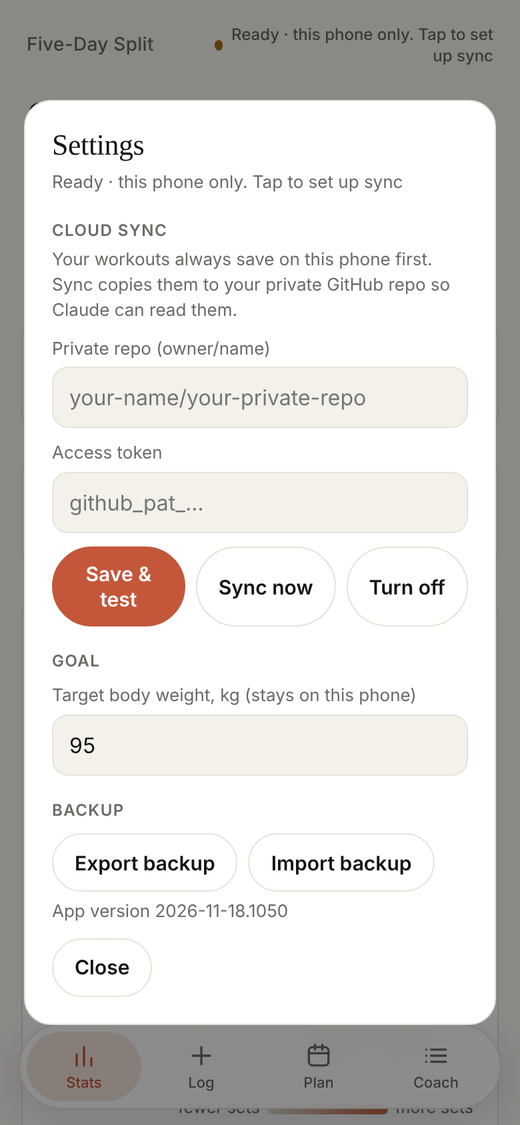
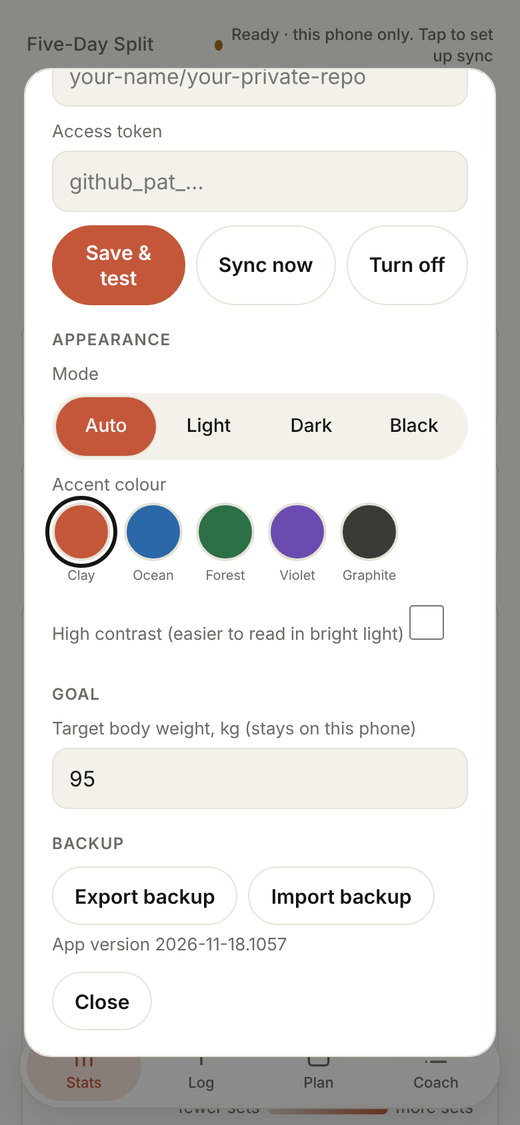
Add themes: auto/light/dark/black mode, five accents, high contrast
Claude-Session: https://claude.ai/code/session_01G4zxRsQQfDdyvkuqdmCpkk

diff --git a/index.html b/index.html
@@ -9,7 +9,8 @@
 <link rel="apple-touch-icon" href="apple-touch-icon.png">
 <meta name="apple-mobile-web-app-capable" content="yes"><meta name="mobile-web-app-capable" content="yes">
 <meta name="apple-mobile-web-app-title" content="Split"><meta name="apple-mobile-web-app-status-bar-style" content="default">
-<meta name="theme-color" content="#faf9f5" media="(prefers-color-scheme: light)"><meta name="theme-color" content="#262624" media="(prefers-color-scheme: dark)">
+<meta name="theme-color" id="tc" content="#faf9f5">
+<script>(function(){try{var T=JSON.parse(localStorage.getItem("split-theme-v1")||"{}"),m=T.mode||"auto",d=document.documentElement,s=m==="auto"?(matchMedia("(prefers-color-scheme: dark)").matches?"dark":"light"):m;d.dataset.scheme=s;d.dataset.accent=T.accent||"clay";d.dataset.contrast=T.contrast||"normal";}catch(e){var d=document.documentElement;d.dataset.scheme=matchMedia("(prefers-color-scheme: dark)").matches?"dark":"light";d.dataset.accent="clay";d.dataset.contrast="normal";}})()</script>
 <style>
 /* Layout: one narrow column, sticky header, bottom tab bar. Palette: graphite with indigo accent; heat uses its own red-to-green scale. */
 /* Look: warm paper, clay accent, serif display + system sans, quiet hairline cards (follows the iPhone light/dark setting) */
@@ -283,6 +284,39 @@ dialog#settings::backdrop{background:rgba(0,0,0,.45)}
 #settings .fileb{display:inline-flex;align-items:center;justify-content:center;cursor:pointer}#settings .fileb input{display:none}
 #set-status,#set-msg,#set-build{font-size:13px;color:var(--muted);margin:6px 0 0}
 .coachnote{border-left:3px solid var(--accent)}.coachnote p{margin:6px 0 0;white-space:pre-line}
+
+/* ---------- themes: html[data-scheme] light|dark|black, [data-accent], [data-contrast] ---------- */
+html[data-scheme="light"]{--bg:#faf9f5;--surface:#fff;--inset:#f3f1ea;--ink:#141413;--muted:#6b6a64;--line:#e6e3d8;--accent:#c4573a;--accent-ink:#fff;--soft:#f6e6de;--good:#5f8a63;--warn:#a8741a;--bad:#b5412f;--body:#ebe8dd;--idle:#e4e1d6;--clay:#c96442;--sand:#e3b99a;--sage:#8fb08f;--fig:#141413;--eq:#c4573a;--shadow:none;color-scheme:light}
+html[data-scheme="dark"]{--bg:#262624;--surface:#30302e;--inset:#262624;--ink:#faf9f5;--muted:#a9a79d;--line:#444440;--accent:#d97757;--accent-ink:#1f1e1d;--soft:#4a362d;--good:#8db48d;--warn:#e0a653;--bad:#e5786a;--body:#3a3936;--idle:#454440;--clay:#d97757;--sand:#b98c6b;--sage:#7fa27f;--fig:#faf9f5;--eq:#d97757;color-scheme:dark}
+html[data-scheme="black"]{--bg:#262624;--surface:#30302e;--inset:#262624;--ink:#faf9f5;--muted:#a9a79d;--line:#444440;--accent:#d97757;--accent-ink:#1f1e1d;--soft:#4a362d;--good:#8db48d;--warn:#e0a653;--bad:#e5786a;--body:#3a3936;--idle:#454440;--clay:#d97757;--sand:#b98c6b;--sage:#7fa27f;--fig:#faf9f5;--eq:#d97757;color-scheme:dark--bg:#000;--surface:#0f0f0f;--inset:#181818;--line:#2c2c2c;--body:#1b1b1b;--idle:#262626}
+html[data-accent="clay"][data-scheme="light"]{--acc:#c4573a;--acc-clay:#c96442;--acc-soft:#f6e6de}
+html[data-accent="clay"][data-scheme="dark"],html[data-accent="clay"][data-scheme="black"]{--acc:#d97757;--acc-clay:#d97757;--acc-soft:#4a362d}
+html[data-accent="ocean"][data-scheme="light"]{--acc:#2a68a8;--acc-clay:#3b79ba;--acc-soft:#e0ebf7}
+html[data-accent="ocean"][data-scheme="dark"],html[data-accent="ocean"][data-scheme="black"]{--acc:#6fa8e0;--acc-clay:#6fa8e0;--acc-soft:#22384d}
+html[data-accent="forest"][data-scheme="light"]{--acc:#2c7048;--acc-clay:#2f6b4c;--acc-soft:#dfeee4}
+html[data-accent="forest"][data-scheme="dark"],html[data-accent="forest"][data-scheme="black"]{--acc:#6fbf8c;--acc-clay:#4f9a6e;--acc-soft:#223a2b}
+html[data-accent="violet"][data-scheme="light"]{--acc:#6a4cb0;--acc-clay:#7757c2;--acc-soft:#ebe5f7}
+html[data-accent="violet"][data-scheme="dark"],html[data-accent="violet"][data-scheme="black"]{--acc:#a68be3;--acc-clay:#a68be3;--acc-soft:#352c50}
+html[data-accent="graphite"][data-scheme="light"]{--acc:#3b3a37;--acc-clay:#5a5852;--acc-soft:#e8e6df}
+html[data-accent="graphite"][data-scheme="dark"],html[data-accent="graphite"][data-scheme="black"]{--acc:#d9d6cd;--acc-clay:#bdb9ae;--acc-soft:#3b3a37}
+html[data-accent]{--accent:var(--acc);--clay:var(--acc-clay);--soft:var(--acc-soft);--eq:var(--acc)}
+html[data-contrast="high"][data-scheme="light"]{--bg:#fff;--surface:#fff;--inset:#ecebe4;--ink:#000;--muted:#2b2a26;--line:#5e5c53;--good:#2f6a35;--warn:#7a4f00;--bad:#9a2412;--accent:color-mix(in srgb,var(--acc) 62%,#000)}
+html[data-contrast="high"][data-scheme="dark"]{--bg:#161615;--surface:#1f1f1e;--inset:#121211;--ink:#fff;--muted:#dedcd3;--line:#a8a69b;--good:#a6d6a6;--warn:#ffc766;--bad:#ff9d8f;--accent:color-mix(in srgb,var(--acc) 62%,#fff)}
+html[data-contrast="high"][data-scheme="black"]{--bg:#000;--surface:#000;--inset:#0b0b0b;--ink:#fff;--muted:#e2e0d7;--line:#b3b1a6;--good:#a6d6a6;--warn:#ffc766;--bad:#ff9d8f;--accent:color-mix(in srgb,var(--acc) 62%,#fff)}
+html[data-contrast="high"] .card,html[data-contrast="high"] .tile,html[data-contrast="high"] .next{border-width:2px;border-color:var(--line)}
+html[data-contrast="high"] .sub,html[data-contrast="high"] .meta,html[data-contrast="high"] .hist{color:var(--muted)}
+html[data-contrast="high"] .btn,html[data-contrast="high"] input[type=text],html[data-contrast="high"] textarea{border:2px solid var(--line)}
+/* appearance controls in Settings */
+.swatches{display:flex;gap:10px;flex-wrap:wrap;margin-top:4px}
+.sw{width:44px;height:44px;border-radius:50%;border:2px solid var(--line);padding:0;position:relative;cursor:pointer}
+.sw[aria-pressed="true"]{outline:3px solid var(--ink);outline-offset:2px}
+.sw span{position:absolute;left:50%;top:100%;transform:translateX(-50%);font-size:10px;color:var(--muted);margin-top:6px;white-space:nowrap}
+.swrow{padding-bottom:20px}
+#settings .seg{display:flex}#settings .seg button{flex:1;min-height:44px;border:0;background:none;font:500 14px var(--sans);color:var(--ink);border-radius:999px}
+#settings .seg button.on{background:var(--accent);color:var(--accent-ink)}
+#settings .seg{background:var(--inset);border-radius:999px;padding:3px}
+.hcrow{display:flex;align-items:center;justify-content:space-between;gap:12px;min-height:44px;margin-top:12px}
+.hcrow input{width:26px;height:26px;accent-color:var(--accent)}
 </style>
 </head>
 <body>
@@ -292,6 +326,15 @@ dialog#settings::backdrop{background:rgba(0,0,0,.45)}
 <label for="set-repo">Private repo (owner/name)</label><input id="set-repo" type="text" placeholder="your-name/your-private-repo" autocapitalize="off" autocorrect="off" spellcheck="false">
 <label for="set-token">Access token</label><input id="set-token" type="password" autocomplete="off" autocapitalize="off" spellcheck="false">
 <div class="row"><button class="btn primary" id="set-save" type="button">Save &amp; test</button><button class="btn" id="set-now" type="button">Sync now</button><button class="btn" id="set-off" type="button">Turn off</button></div>
+<h3>Appearance</h3>
+<label>Mode</label><div class="seg" id="th-mode" role="group" aria-label="Mode"><button type="button" data-mode="auto">Auto</button><button type="button" data-mode="light">Light</button><button type="button" data-mode="dark">Dark</button><button type="button" data-mode="black">Black</button></div>
+<label>Accent colour</label><div class="swatches swrow" id="th-acc" role="group" aria-label="Accent colour">
+<button type="button" class="sw" data-acc="clay" aria-label="Clay" style="background:#c4573a"><span>Clay</span></button>
+<button type="button" class="sw" data-acc="ocean" aria-label="Ocean" style="background:#2a68a8"><span>Ocean</span></button>
+<button type="button" class="sw" data-acc="forest" aria-label="Forest" style="background:#2c7048"><span>Forest</span></button>
+<button type="button" class="sw" data-acc="violet" aria-label="Violet" style="background:#6a4cb0"><span>Violet</span></button>
+<button type="button" class="sw" data-acc="graphite" aria-label="Graphite" style="background:#3b3a37"><span>Graphite</span></button></div>
+<label class="hcrow" for="th-hc"><span>High contrast (easier to read in bright light)</span><input type="checkbox" id="th-hc"></label>
 <h3>Goal</h3><label for="set-target">Target body weight, kg (stays on this phone)</label><input id="set-target" type="text" inputmode="decimal" placeholder="optional">
 <h3>Backup</h3><div class="row"><button class="btn" id="set-export" type="button">Export backup</button><label class="btn fileb" style="margin:0;color:var(--ink)">Import backup<input id="set-import" type="file" accept="application/json,.json"></label></div>
 <p id="set-msg" role="status"></p><p id="set-build"></p>
@@ -392,7 +435,7 @@ let sampleCache=null;
 const LS_CO='split-coach-v1',LS_CS='split-coach-shas-v1';
 const esc=s=>String(s==null?'':s).replace(/[&<>"']/g,c=>({'&':'&amp;','<':'&lt;','>':'&gt;','"':'&quot;',"'":'&#39;'}[c]));
 const LS_S='split-sessions-v2',LS_Q='split-queue-v1',LS_C='split-sync-cfg-v1',LS_H='split-shas-v1',LS_L='split-lastsync-v1';
-const BUILD='2026-11-18.1050';
+const BUILD='2026-11-18.1057';
 const lsGet=(k,d)=>{try{const v=localStorage.getItem(k);return v?JSON.parse(v):d;}catch(e){return d;}};
 const lsSet=(k,v)=>{try{localStorage.setItem(k,JSON.stringify(v));return true;}catch(e){return false;}};
 function idbOpen(){return new Promise((res,rej)=>{try{const r=indexedDB.open('split',1);r.onupgradeneeded=()=>r.result.createObjectStore('kv');r.onsuccess=()=>res(r.result);r.onerror=()=>rej(r.error);}catch(e){rej(e);}});}
@@ -940,6 +983,23 @@ window.addEventListener('pagehide',()=>{if(state.dirty)autoSave();});
 window.addEventListener('focus',rollover);
 window.addEventListener('online',()=>schedSync(500));
 document.addEventListener('visibilitychange',()=>{if(document.hidden){if(Object.keys(queueGet()).length)schedSync(0);}else schedSync(500);});
+/* ---------- themes ---------- */
+const LS_TH='split-theme-v1';
+const themeGet=()=>Object.assign({mode:'auto',accent:'clay',contrast:'normal'},lsGet(LS_TH,{}));
+function applyTheme(){
+  const T=themeGet(),d=document.documentElement,mq=matchMedia('(prefers-color-scheme: dark)');
+  d.dataset.scheme=T.mode==='auto'?(mq.matches?'dark':'light'):T.mode;d.dataset.accent=T.accent;d.dataset.contrast=T.contrast;
+  const tc=$('#tc');if(tc)tc.content=getComputedStyle(d).getPropertyValue('--bg').trim()||'#faf9f5';
+  document.querySelectorAll('#th-mode button').forEach(b=>b.classList.toggle('on',b.dataset.mode===T.mode));
+  document.querySelectorAll('#th-acc button').forEach(b=>b.setAttribute('aria-pressed',b.dataset.acc===T.accent?'true':'false'));
+  const hc=$('#th-hc');if(hc)hc.checked=T.contrast==='high';
+}
+function setTheme(p){lsSet(LS_TH,Object.assign(themeGet(),p));applyTheme();}
+$('#th-mode').addEventListener('click',e=>{const b=e.target.closest('button');if(b)setTheme({mode:b.dataset.mode});});
+$('#th-acc').addEventListener('click',e=>{const b=e.target.closest('button');if(b)setTheme({accent:b.dataset.acc});});
+$('#th-hc').addEventListener('change',e=>setTheme({contrast:e.target.checked?'high':'normal'}));
+try{matchMedia('(prefers-color-scheme: dark)').addEventListener('change',()=>{if(themeGet().mode==='auto')applyTheme();});}catch(e){}
+applyTheme();
 /* ---------- settings sheet ---------- */
 const dlg=$('#settings');
 function openSettings(){const c=cfg();$('#set-repo').value=c?c.repo:'';$('#set-token').value='';$('#set-target').value=targetKg()||'';$('#set-token').placeholder=c?'Token saved. Leave empty to keep it':'github_pat_…';$('#set-build').textContent='App version '+BUILD;$('#set-msg').textContent='';refreshStatus();if(dlg.showModal)dlg.showModal();else dlg.setAttribute('open','');}

diff --git a/src/template.html b/src/template.html
@@ -9,7 +9,8 @@
 <link rel="apple-touch-icon" href="apple-touch-icon.png">
 <meta name="apple-mobile-web-app-capable" content="yes"><meta name="mobile-web-app-capable" content="yes">
 <meta name="apple-mobile-web-app-title" content="Split"><meta name="apple-mobile-web-app-status-bar-style" content="default">
-<meta name="theme-color" content="#faf9f5" media="(prefers-color-scheme: light)"><meta name="theme-color" content="#262624" media="(prefers-color-scheme: dark)">
+<meta name="theme-color" id="tc" content="#faf9f5">
+<script>(function(){try{var T=JSON.parse(localStorage.getItem("split-theme-v1")||"{}"),m=T.mode||"auto",d=document.documentElement,s=m==="auto"?(matchMedia("(prefers-color-scheme: dark)").matches?"dark":"light"):m;d.dataset.scheme=s;d.dataset.accent=T.accent||"clay";d.dataset.contrast=T.contrast||"normal";}catch(e){var d=document.documentElement;d.dataset.scheme=matchMedia("(prefers-color-scheme: dark)").matches?"dark":"light";d.dataset.accent="clay";d.dataset.contrast="normal";}})()</script>
 <style>
 /* Layout: one narrow column, sticky header, bottom tab bar. Palette: graphite with indigo accent; heat uses its own red-to-green scale. */
 /* Look: warm paper, clay accent, serif display + system sans, quiet hairline cards (follows the iPhone light/dark setting) */
@@ -283,6 +284,39 @@ dialog#settings::backdrop{background:rgba(0,0,0,.45)}
 #settings .fileb{display:inline-flex;align-items:center;justify-content:center;cursor:pointer}#settings .fileb input{display:none}
 #set-status,#set-msg,#set-build{font-size:13px;color:var(--muted);margin:6px 0 0}
 .coachnote{border-left:3px solid var(--accent)}.coachnote p{margin:6px 0 0;white-space:pre-line}
+
+/* ---------- themes: html[data-scheme] light|dark|black, [data-accent], [data-contrast] ---------- */
+html[data-scheme="light"]{--bg:#faf9f5;--surface:#fff;--inset:#f3f1ea;--ink:#141413;--muted:#6b6a64;--line:#e6e3d8;--accent:#c4573a;--accent-ink:#fff;--soft:#f6e6de;--good:#5f8a63;--warn:#a8741a;--bad:#b5412f;--body:#ebe8dd;--idle:#e4e1d6;--clay:#c96442;--sand:#e3b99a;--sage:#8fb08f;--fig:#141413;--eq:#c4573a;--shadow:none;color-scheme:light}
+html[data-scheme="dark"]{--bg:#262624;--surface:#30302e;--inset:#262624;--ink:#faf9f5;--muted:#a9a79d;--line:#444440;--accent:#d97757;--accent-ink:#1f1e1d;--soft:#4a362d;--good:#8db48d;--warn:#e0a653;--bad:#e5786a;--body:#3a3936;--idle:#454440;--clay:#d97757;--sand:#b98c6b;--sage:#7fa27f;--fig:#faf9f5;--eq:#d97757;color-scheme:dark}
+html[data-scheme="black"]{--bg:#262624;--surface:#30302e;--inset:#262624;--ink:#faf9f5;--muted:#a9a79d;--line:#444440;--accent:#d97757;--accent-ink:#1f1e1d;--soft:#4a362d;--good:#8db48d;--warn:#e0a653;--bad:#e5786a;--body:#3a3936;--idle:#454440;--clay:#d97757;--sand:#b98c6b;--sage:#7fa27f;--fig:#faf9f5;--eq:#d97757;color-scheme:dark--bg:#000;--surface:#0f0f0f;--inset:#181818;--line:#2c2c2c;--body:#1b1b1b;--idle:#262626}
+html[data-accent="clay"][data-scheme="light"]{--acc:#c4573a;--acc-clay:#c96442;--acc-soft:#f6e6de}
+html[data-accent="clay"][data-scheme="dark"],html[data-accent="clay"][data-scheme="black"]{--acc:#d97757;--acc-clay:#d97757;--acc-soft:#4a362d}
+html[data-accent="ocean"][data-scheme="light"]{--acc:#2a68a8;--acc-clay:#3b79ba;--acc-soft:#e0ebf7}
+html[data-accent="ocean"][data-scheme="dark"],html[data-accent="ocean"][data-scheme="black"]{--acc:#6fa8e0;--acc-clay:#6fa8e0;--acc-soft:#22384d}
+html[data-accent="forest"][data-scheme="light"]{--acc:#2c7048;--acc-clay:#2f6b4c;--acc-soft:#dfeee4}
+html[data-accent="forest"][data-scheme="dark"],html[data-accent="forest"][data-scheme="black"]{--acc:#6fbf8c;--acc-clay:#4f9a6e;--acc-soft:#223a2b}
+html[data-accent="violet"][data-scheme="light"]{--acc:#6a4cb0;--acc-clay:#7757c2;--acc-soft:#ebe5f7}
+html[data-accent="violet"][data-scheme="dark"],html[data-accent="violet"][data-scheme="black"]{--acc:#a68be3;--acc-clay:#a68be3;--acc-soft:#352c50}
+html[data-accent="graphite"][data-scheme="light"]{--acc:#3b3a37;--acc-clay:#5a5852;--acc-soft:#e8e6df}
+html[data-accent="graphite"][data-scheme="dark"],html[data-accent="graphite"][data-scheme="black"]{--acc:#d9d6cd;--acc-clay:#bdb9ae;--acc-soft:#3b3a37}
+html[data-accent]{--accent:var(--acc);--clay:var(--acc-clay);--soft:var(--acc-soft);--eq:var(--acc)}
+html[data-contrast="high"][data-scheme="light"]{--bg:#fff;--surface:#fff;--inset:#ecebe4;--ink:#000;--muted:#2b2a26;--line:#5e5c53;--good:#2f6a35;--warn:#7a4f00;--bad:#9a2412;--accent:color-mix(in srgb,var(--acc) 62%,#000)}
+html[data-contrast="high"][data-scheme="dark"]{--bg:#161615;--surface:#1f1f1e;--inset:#121211;--ink:#fff;--muted:#dedcd3;--line:#a8a69b;--good:#a6d6a6;--warn:#ffc766;--bad:#ff9d8f;--accent:color-mix(in srgb,var(--acc) 62%,#fff)}
+html[data-contrast="high"][data-scheme="black"]{--bg:#000;--surface:#000;--inset:#0b0b0b;--ink:#fff;--muted:#e2e0d7;--line:#b3b1a6;--good:#a6d6a6;--warn:#ffc766;--bad:#ff9d8f;--accent:color-mix(in srgb,var(--acc) 62%,#fff)}
+html[data-contrast="high"] .card,html[data-contrast="high"] .tile,html[data-contrast="high"] .next{border-width:2px;border-color:var(--line)}
+html[data-contrast="high"] .sub,html[data-contrast="high"] .meta,html[data-contrast="high"] .hist{color:var(--muted)}
+html[data-contrast="high"] .btn,html[data-contrast="high"] input[type=text],html[data-contrast="high"] textarea{border:2px solid var(--line)}
+/* appearance controls in Settings */
+.swatches{display:flex;gap:10px;flex-wrap:wrap;margin-top:4px}
+.sw{width:44px;height:44px;border-radius:50%;border:2px solid var(--line);padding:0;position:relative;cursor:pointer}
+.sw[aria-pressed="true"]{outline:3px solid var(--ink);outline-offset:2px}
+.sw span{position:absolute;left:50%;top:100%;transform:translateX(-50%);font-size:10px;color:var(--muted);margin-top:6px;white-space:nowrap}
+.swrow{padding-bottom:20px}
+#settings .seg{display:flex}#settings .seg button{flex:1;min-height:44px;border:0;background:none;font:500 14px var(--sans);color:var(--ink);border-radius:999px}
+#settings .seg button.on{background:var(--accent);color:var(--accent-ink)}
+#settings .seg{background:var(--inset);border-radius:999px;padding:3px}
+.hcrow{display:flex;align-items:center;justify-content:space-between;gap:12px;min-height:44px;margin-top:12px}
+.hcrow input{width:26px;height:26px;accent-color:var(--accent)}
 </style>
 </head>
 <body>
@@ -292,6 +326,15 @@ dialog#settings::backdrop{background:rgba(0,0,0,.45)}
 <label for="set-repo">Private repo (owner/name)</label><input id="set-repo" type="text" placeholder="your-name/your-private-repo" autocapitalize="off" autocorrect="off" spellcheck="false">
 <label for="set-token">Access token</label><input id="set-token" type="password" autocomplete="off" autocapitalize="off" spellcheck="false">
 <div class="row"><button class="btn primary" id="set-save" type="button">Save &amp; test</button><button class="btn" id="set-now" type="button">Sync now</button><button class="btn" id="set-off" type="button">Turn off</button></div>
+<h3>Appearance</h3>
+<label>Mode</label><div class="seg" id="th-mode" role="group" aria-label="Mode"><button type="button" data-mode="auto">Auto</button><button type="button" data-mode="light">Light</button><button type="button" data-mode="dark">Dark</button><button type="button" data-mode="black">Black</button></div>
+<label>Accent colour</label><div class="swatches swrow" id="th-acc" role="group" aria-label="Accent colour">
+<button type="button" class="sw" data-acc="clay" aria-label="Clay" style="background:#c4573a"><span>Clay</span></button>
+<button type="button" class="sw" data-acc="ocean" aria-label="Ocean" style="background:#2a68a8"><span>Ocean</span></button>
+<button type="button" class="sw" data-acc="forest" aria-label="Forest" style="background:#2c7048"><span>Forest</span></button>
+<button type="button" class="sw" data-acc="violet" aria-label="Violet" style="background:#6a4cb0"><span>Violet</span></button>
+<button type="button" class="sw" data-acc="graphite" aria-label="Graphite" style="background:#3b3a37"><span>Graphite</span></button></div>
+<label class="hcrow" for="th-hc"><span>High contrast (easier to read in bright light)</span><input type="checkbox" id="th-hc"></label>
 <h3>Goal</h3><label for="set-target">Target body weight, kg (stays on this phone)</label><input id="set-target" type="text" inputmode="decimal" placeholder="optional">
 <h3>Backup</h3><div class="row"><button class="btn" id="set-export" type="button">Export backup</button><label class="btn fileb" style="margin:0;color:var(--ink)">Import backup<input id="set-import" type="file" accept="application/json,.json"></label></div>
 <p id="set-msg" role="status"></p><p id="set-build"></p>

diff --git a/src/app.js b/src/app.js
@@ -569,6 +569,23 @@ window.addEventListener('pagehide',()=>{if(state.dirty)autoSave();});
 window.addEventListener('focus',rollover);
 window.addEventListener('online',()=>schedSync(500));
 document.addEventListener('visibilitychange',()=>{if(document.hidden){if(Object.keys(queueGet()).length)schedSync(0);}else schedSync(500);});
+/* ---------- themes ---------- */
+const LS_TH='split-theme-v1';
+const themeGet=()=>Object.assign({mode:'auto',accent:'clay',contrast:'normal'},lsGet(LS_TH,{}));
+function applyTheme(){
+  const T=themeGet(),d=document.documentElement,mq=matchMedia('(prefers-color-scheme: dark)');
+  d.dataset.scheme=T.mode==='auto'?(mq.matches?'dark':'light'):T.mode;d.dataset.accent=T.accent;d.dataset.contrast=T.contrast;
+  const tc=$('#tc');if(tc)tc.content=getComputedStyle(d).getPropertyValue('--bg').trim()||'#faf9f5';
+  document.querySelectorAll('#th-mode button').forEach(b=>b.classList.toggle('on',b.dataset.mode===T.mode));
+  document.querySelectorAll('#th-acc button').forEach(b=>b.setAttribute('aria-pressed',b.dataset.acc===T.accent?'true':'false'));
+  const hc=$('#th-hc');if(hc)hc.checked=T.contrast==='high';
+}
+function setTheme(p){lsSet(LS_TH,Object.assign(themeGet(),p));applyTheme();}
+$('#th-mode').addEventListener('click',e=>{const b=e.target.closest('button');if(b)setTheme({mode:b.dataset.mode});});
+$('#th-acc').addEventListener('click',e=>{const b=e.target.closest('button');if(b)setTheme({accent:b.dataset.acc});});
+$('#th-hc').addEventListener('change',e=>setTheme({contrast:e.target.checked?'high':'normal'}));
+try{matchMedia('(prefers-color-scheme: dark)').addEventListener('change',()=>{if(themeGet().mode==='auto')applyTheme();});}catch(e){}
+applyTheme();
 /* ---------- settings sheet ---------- */
 const dlg=$('#settings');
 function openSettings(){const c=cfg();$('#set-repo').value=c?c.repo:'';$('#set-token').value='';$('#set-target').value=targetKg()||'';$('#set-token').placeholder=c?'Token saved. Leave empty to keep it':'github_pat_…';$('#set-build').textContent='App version '+BUILD;$('#set-msg').textContent='';refreshStatus();if(dlg.showModal)dlg.showModal();else dlg.setAttribute('open','');}

diff --git a/sw.js b/sw.js
@@ -1,4 +1,4 @@
-const V='split-2026-11-18.1050';
+const V='split-2026-11-18.1057';
 const SHELL=['./','index.html','manifest.webmanifest','icon-192.png','icon-512.png','apple-touch-icon.png'];
 self.addEventListener('install',e=>{e.waitUntil(caches.open(V).then(c=>c.addAll(SHELL)).then(()=>self.skipWaiting()));});
 self.addEventListener('activate',e=>{e.waitUntil(caches.keys().then(ks=>Promise.all(ks.filter(k=>k!==V).map(k=>caches.delete(k)))).then(()=>self.clients.claim()));});

diff --git a/README.md b/README.md
@@ -12,6 +12,8 @@ An offline-first workout tracker for a five-day split. It installs on an iPhone 
 |---|---|---|
 | ![Exercise card with sets, suggested weight and alternatives](docs/screenshots/log-exercise.png) | ![Stats tab in dark mode](docs/screenshots/stats-dark.png) | ![Settings with sync and backup](docs/screenshots/settings.png) |
 
+![Four themes: light clay, dark ocean, black violet, high-contrast forest](docs/screenshots/themes.png)
+
 ## What it does
 
 - **Log:** pick the day (D1 Pull, D2 Push, D3 Legs, D4 Arms and delts, D5 Chest and back), enter weight and reps per set. Every change autosaves on the phone after half a second.
@@ -20,7 +22,7 @@ An offline-first workout tracker for a five-day split. It installs on an iPhone 
 - **Stats:** muscles trained in the last 7 days on a body map, activity calendar, body weight trend, strength trends and recent workouts.
 - **Offline:** works with no signal. Logs wait on the phone and upload when a connection returns.
 - **Coach notes:** if the data repo contains `coach/YYYY-MM-DD.json`, the Log tab shows its summary for that date and uses its per-exercise weights as the suggestion.
-- **Light and dark:** follows the phone setting.
+- **Themes:** Auto, Light, Dark or true-black (OLED) mode, five accent colours (Clay, Ocean, Forest, Violet, Graphite) and a high-contrast option for bright gyms. Set in Settings and saved on the phone.
 
 ## Install on an iPhone
 
